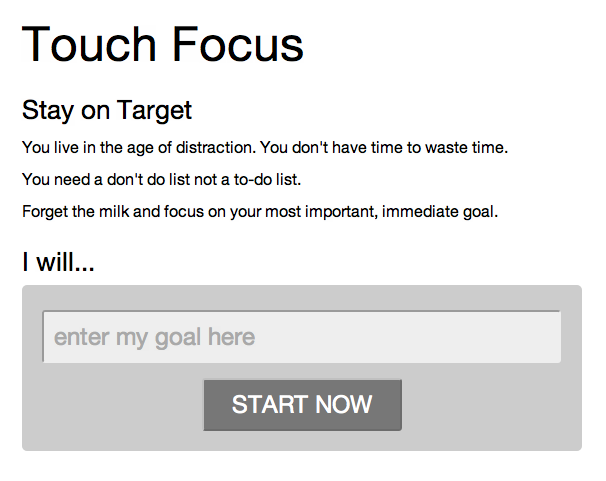
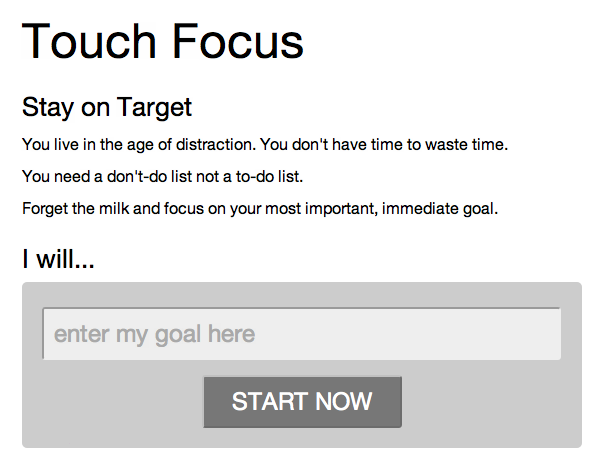
Add a hyphen

diff --git a/index.html b/index.html
@@ -21,7 +21,7 @@
 
       <h2>Stay on Target</h2>
       <p>You live in the age of distraction. You don't have time to waste time.</p>
-      <p>You need a don't do list not a to-do list.</p>
+      <p>You need a don't-do list not a to-do list.</p>
       <p>Forget the milk and focus on your most important, immediate goal.</p>
       
       <div id="goal-entry" ng-controller="GoalCtrl">
